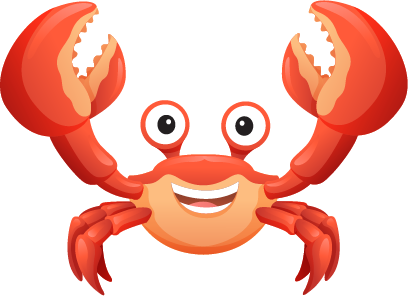
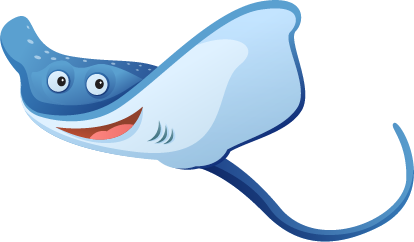
added class to fish imgs, fixed shuffle targets, renumbered images

diff --git a/index.html b/index.html
@@ -38,7 +38,7 @@
               <img src="images/frontOfCard.png" alt="icon" />
             </div>
             <div class="view back-side">
-              <img src="images/img-7.png" alt="card-img" />
+              <img class="fish-img" src="images/img-7.png" alt="card-img" />
             </div>
           </div>
 
@@ -47,7 +47,7 @@
               <img src="images/frontOfCard.png" alt="icon" />
             </div>
             <div class="view back-side">
-              <img src="images/img-1.png" alt="card-img" />
+              <img class="fish-img" src="images/img-1.png" alt="card-img" />
             </div>
           </div>
 
@@ -56,7 +56,7 @@
               <img src="images/frontOfCard.png" alt="icon" />
             </div>
             <div class="view back-side">
-              <img src="images/img-1.png" alt="card-img" />
+              <img class="fish-img" src="images/img-1.png" alt="card-img" />
             </div>
           </div>
 
@@ -65,7 +65,7 @@
               <img src="images/frontOfCard.png" alt="icon" />
             </div>
             <div class="view back-side">
-              <img src="images/img-2.png" alt="card-img" />
+              <img class="fish-img" src="images/img-2.png" alt="card-img" />
             </div>
           </div>
 
@@ -74,7 +74,7 @@
               <img src="images/frontOfCard.png" alt="icon" />
             </div>
             <div class="view back-side">
-              <img src="images/img-2.png" alt="card-img" />
+              <img class="fish-img" src="images/img-2.png" alt="card-img" />
             </div>
           </div>
 
@@ -83,7 +83,7 @@
               <img src="images/frontOfCard.png" alt="icon" />
             </div>
             <div class="view back-side">
-              <img src="images/img-3.png" alt="card-img" />
+              <img class="fish-img" src="images/img-3.png" alt="card-img" />
             </div>
           </div>
 
@@ -92,7 +92,7 @@
               <img src="images/frontOfCard.png" alt="icon" />
             </div>
             <div class="view back-side">
-              <img src="images/img-3.png" alt="card-img" />
+              <img class="fish-img" src="images/img-3.png" alt="card-img" />
             </div>
           </div>
 
@@ -101,7 +101,7 @@
               <img src="images/frontOfCard.png" alt="icon" />
             </div>
             <div class="view back-side">
-              <img src="images/img-6.png" alt="card-img" />
+              <img class="fish-img" src="images/img-6.png" alt="card-img" />
             </div>
           </div>
 
@@ -110,7 +110,7 @@
               <img src="images/frontOfCard.png" alt="icon" />
             </div>
             <div class="view back-side">
-              <img src="images/img-6.png" alt="card-img" />
+              <img class="fish-img" src="images/img-6.png" alt="card-img" />
             </div>
           </div>
 
@@ -119,7 +119,7 @@
               <img src="images/frontOfCard.png" alt="icon" />
             </div>
             <div class="view back-side">
-              <img src="images/img-8.png" alt="card-img" />
+              <img class="fish-img" src="images/img-8.png" alt="card-img" />
             </div>
           </div>
 
@@ -128,7 +128,7 @@
               <img src="images/frontOfCard.png" alt="icon" />
             </div>
             <div class="view back-side">
-              <img src="images/img-8.png" alt="card-img" />
+              <img class="fish-img" src="images/img-8.png" alt="card-img" />
             </div>
           </div>
 
@@ -137,7 +137,7 @@
               <img src="images/frontOfCard.png" alt="icon" />
             </div>
             <div class="view back-side">
-              <img src="images/img-7.png" alt="card-img" />
+              <img class="fish-img" src="images/img-7.png" alt="card-img" />
             </div>
           </div>
         </div>

diff --git a/script.js b/script.js
@@ -8,7 +8,7 @@ const timeDisplay = document.getElementById("timeDisplay");
 let second = timeDisplay.innerText;
 let startIntervalId;
 let shuffleArray = [0, 0, 1, 1, 2, 2, 3, 3, 4, 4, 5, 5];
-let imgTag = document.querySelectorAll(".front-img");
+let imgTag = document.querySelectorAll(".fish-img");
 
 function updateTimer() {
   second = Number(second) - 1;
@@ -55,7 +55,7 @@ function shuffleCards(array, items) {
     clonedArray.splice(randomIndex, 1);
   }
   for (let i = 0; i < randomArray.length - 1; i++) {
-    imgTag[i] = `images/img-${randomArray[i]}.png`;
+    imgTag[i].src = `images/img-${randomArray[i]}.png`;
   }
 }
 
